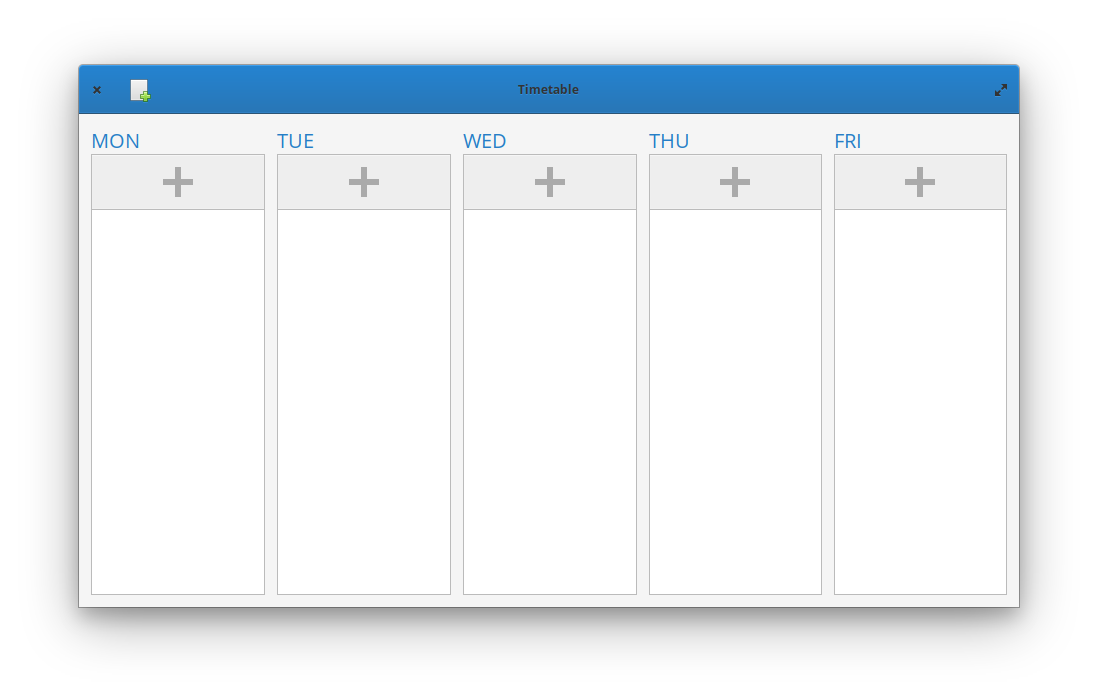
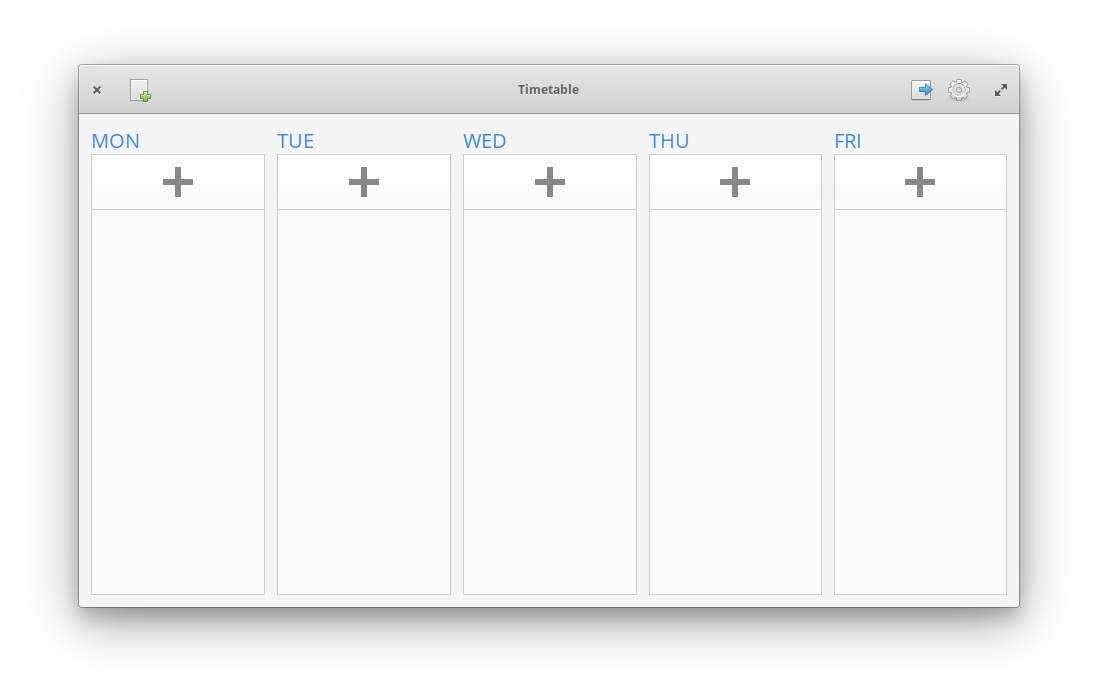
* - small changes

diff --git a/data/stylesheet.css b/data/stylesheet.css
@@ -1,39 +1,31 @@
-@define-color colorPrimary #267ec6;
-@define-color textColorPrimary #333333;
-
-.titlebar {
-    color: @textColorPrimary;
-}
-
-.tt-toolbar {
-    color: @textColorPrimary;
-}
-
 .tt-label {
     font-size: 1.66em;
-    color: @colorPrimary;
+    color: #3689e6;
 }
 
 .tt-column {
-    background-color: #FFFFFF;
-    border: 1px solid #BBBBBB;
+    background-color: #fafafa;
+    border: 1px solid #ccc;
 }
 
 .tt-button {
-    background-image: none;
-    background-color: #EEEEEE;
-    border-bottom: 1px solid #BBBBBB;
+    background-image: linear-gradient(
+        to bottom,
+        #fff,
+        #fafafa
+        );
+    border-bottom: 1px solid #ccc;
     border-top: none;
     border-left: none;
     border-right: none;
     border-radius: 0;
 }
 .tt-button image {
-    color: #AAAAAA;
+    color: #888888;
     -gtk-icon-shadow: none;
 }
 .tt-button:focus {
     box-shadow:
-        0 1px 3px alpha (@colorPrimary,0.12),
-        0 1px 2px alpha (@colorPrimary,0.24);
+        0 1px 3px alpha (#3689e6, 0.12),
+        0 1px 2px alpha (#3689e6, 0.24);
 }
